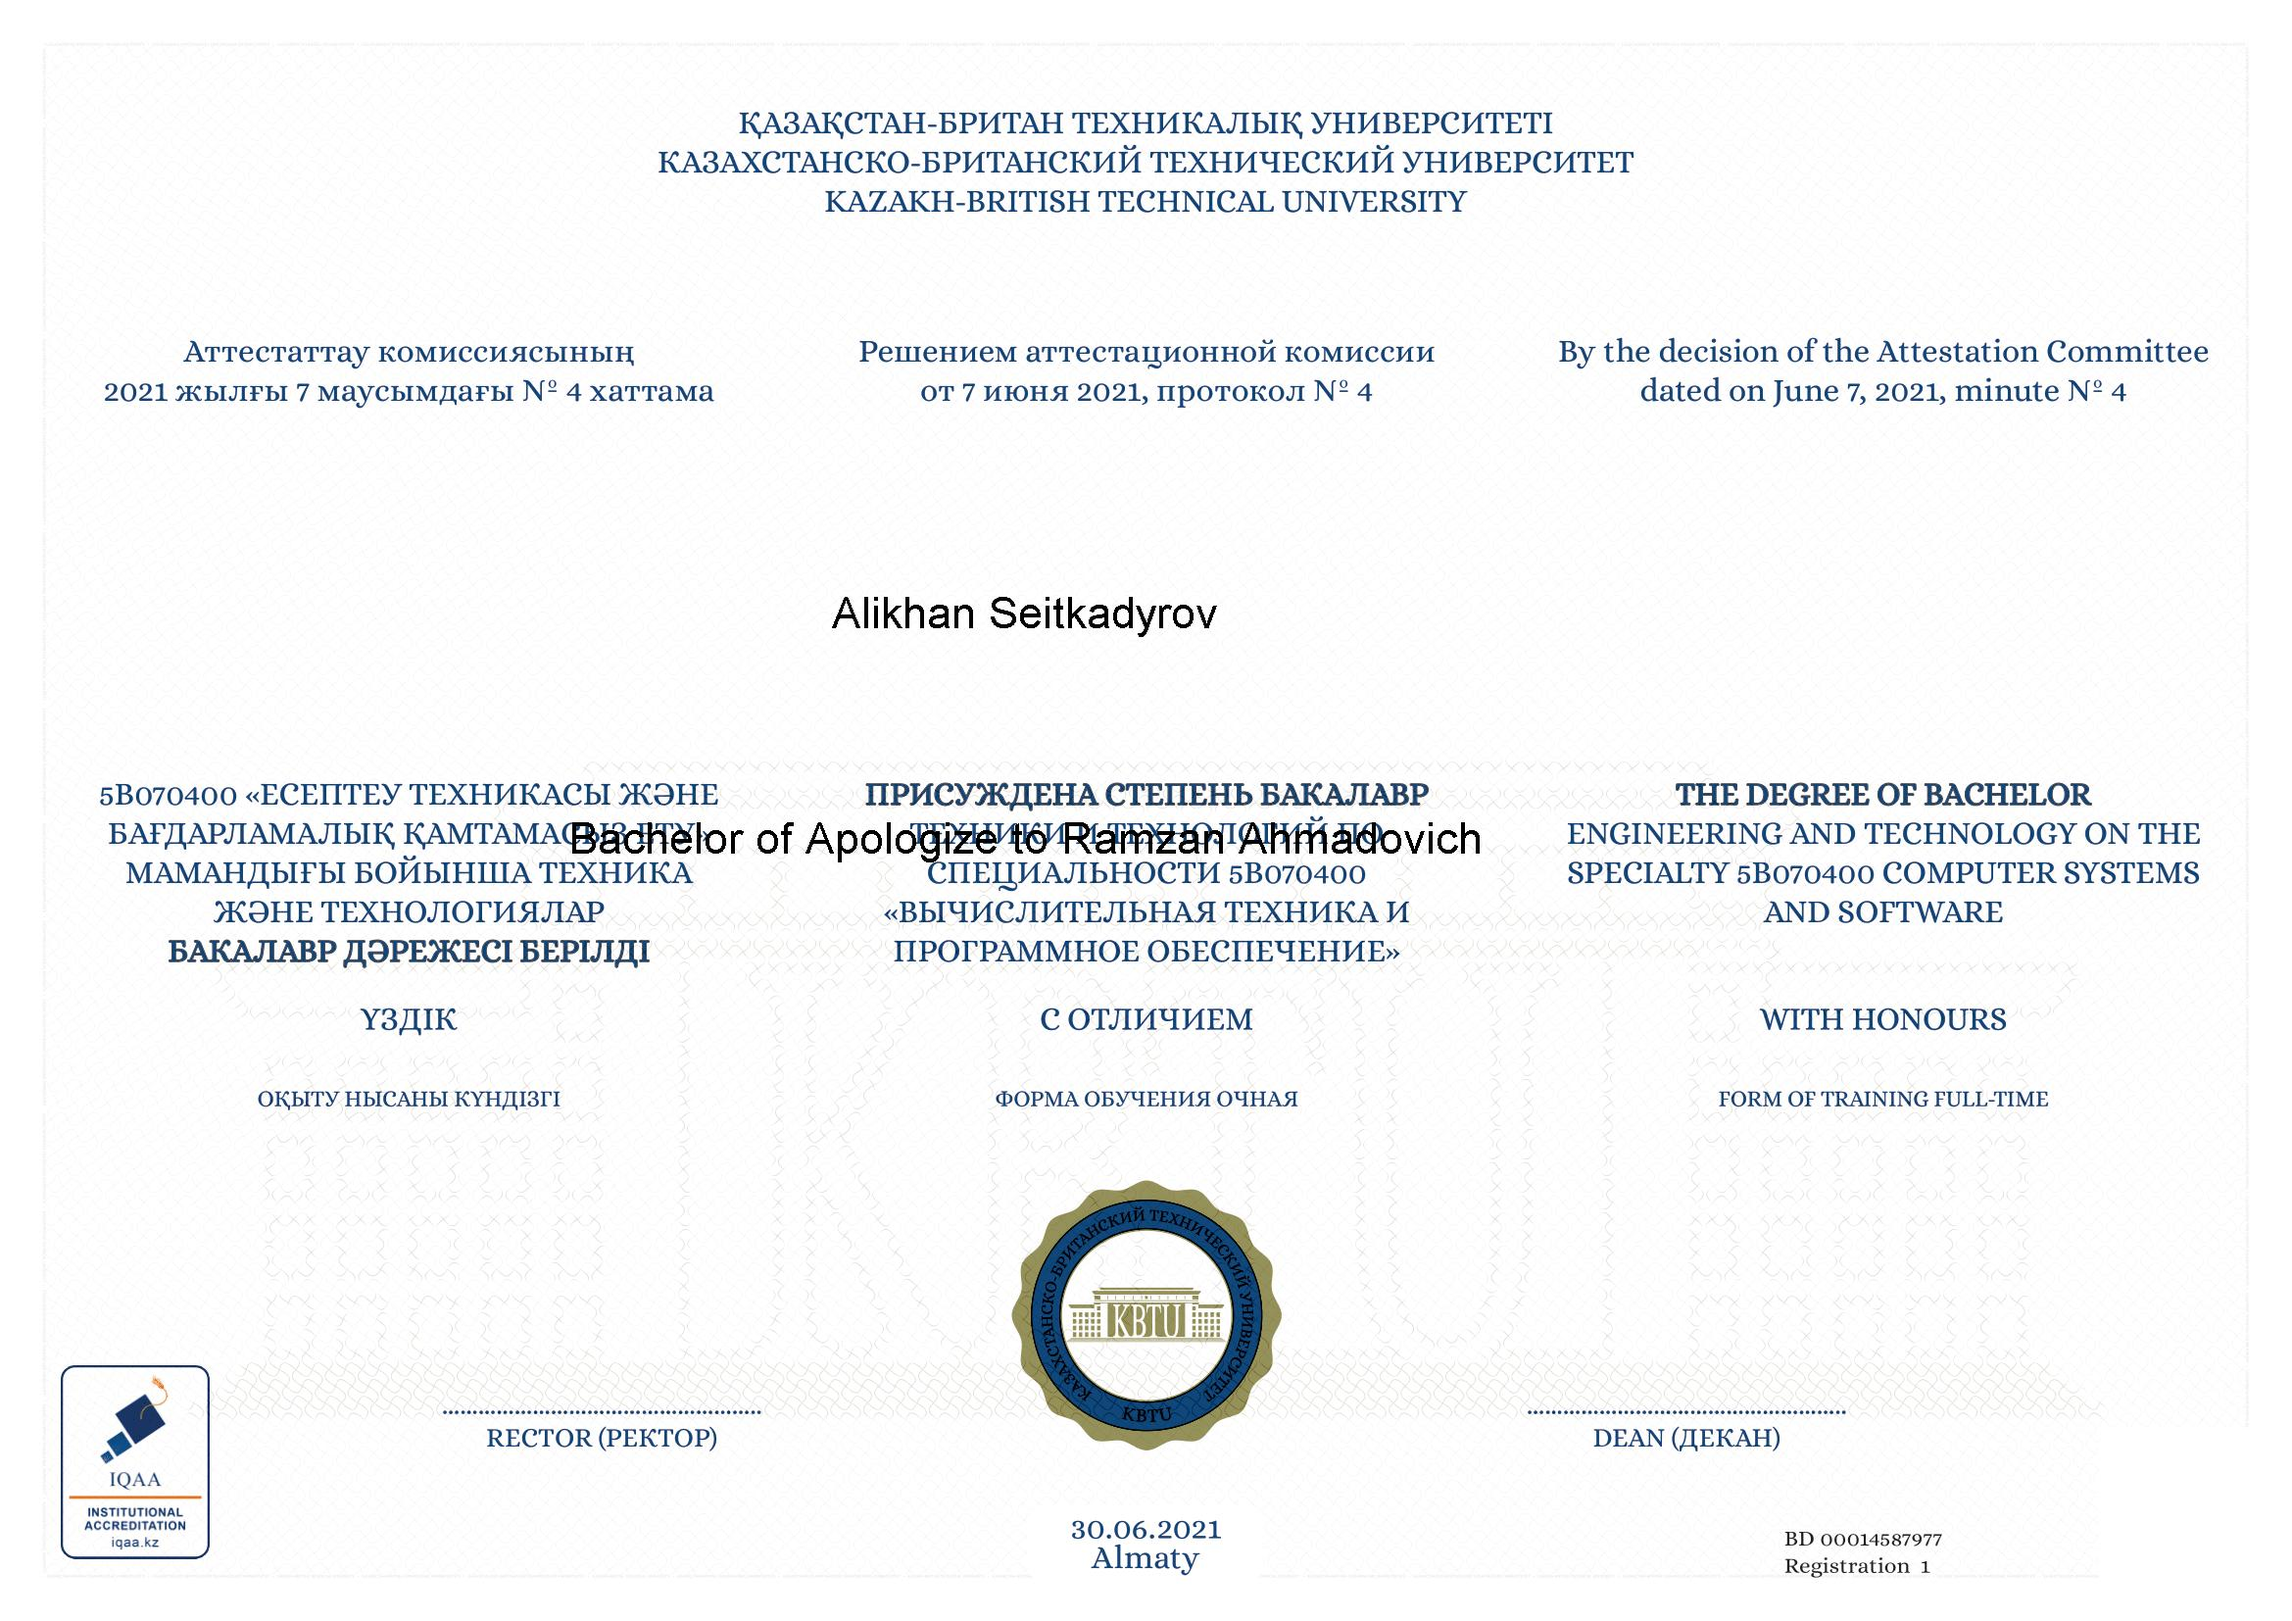
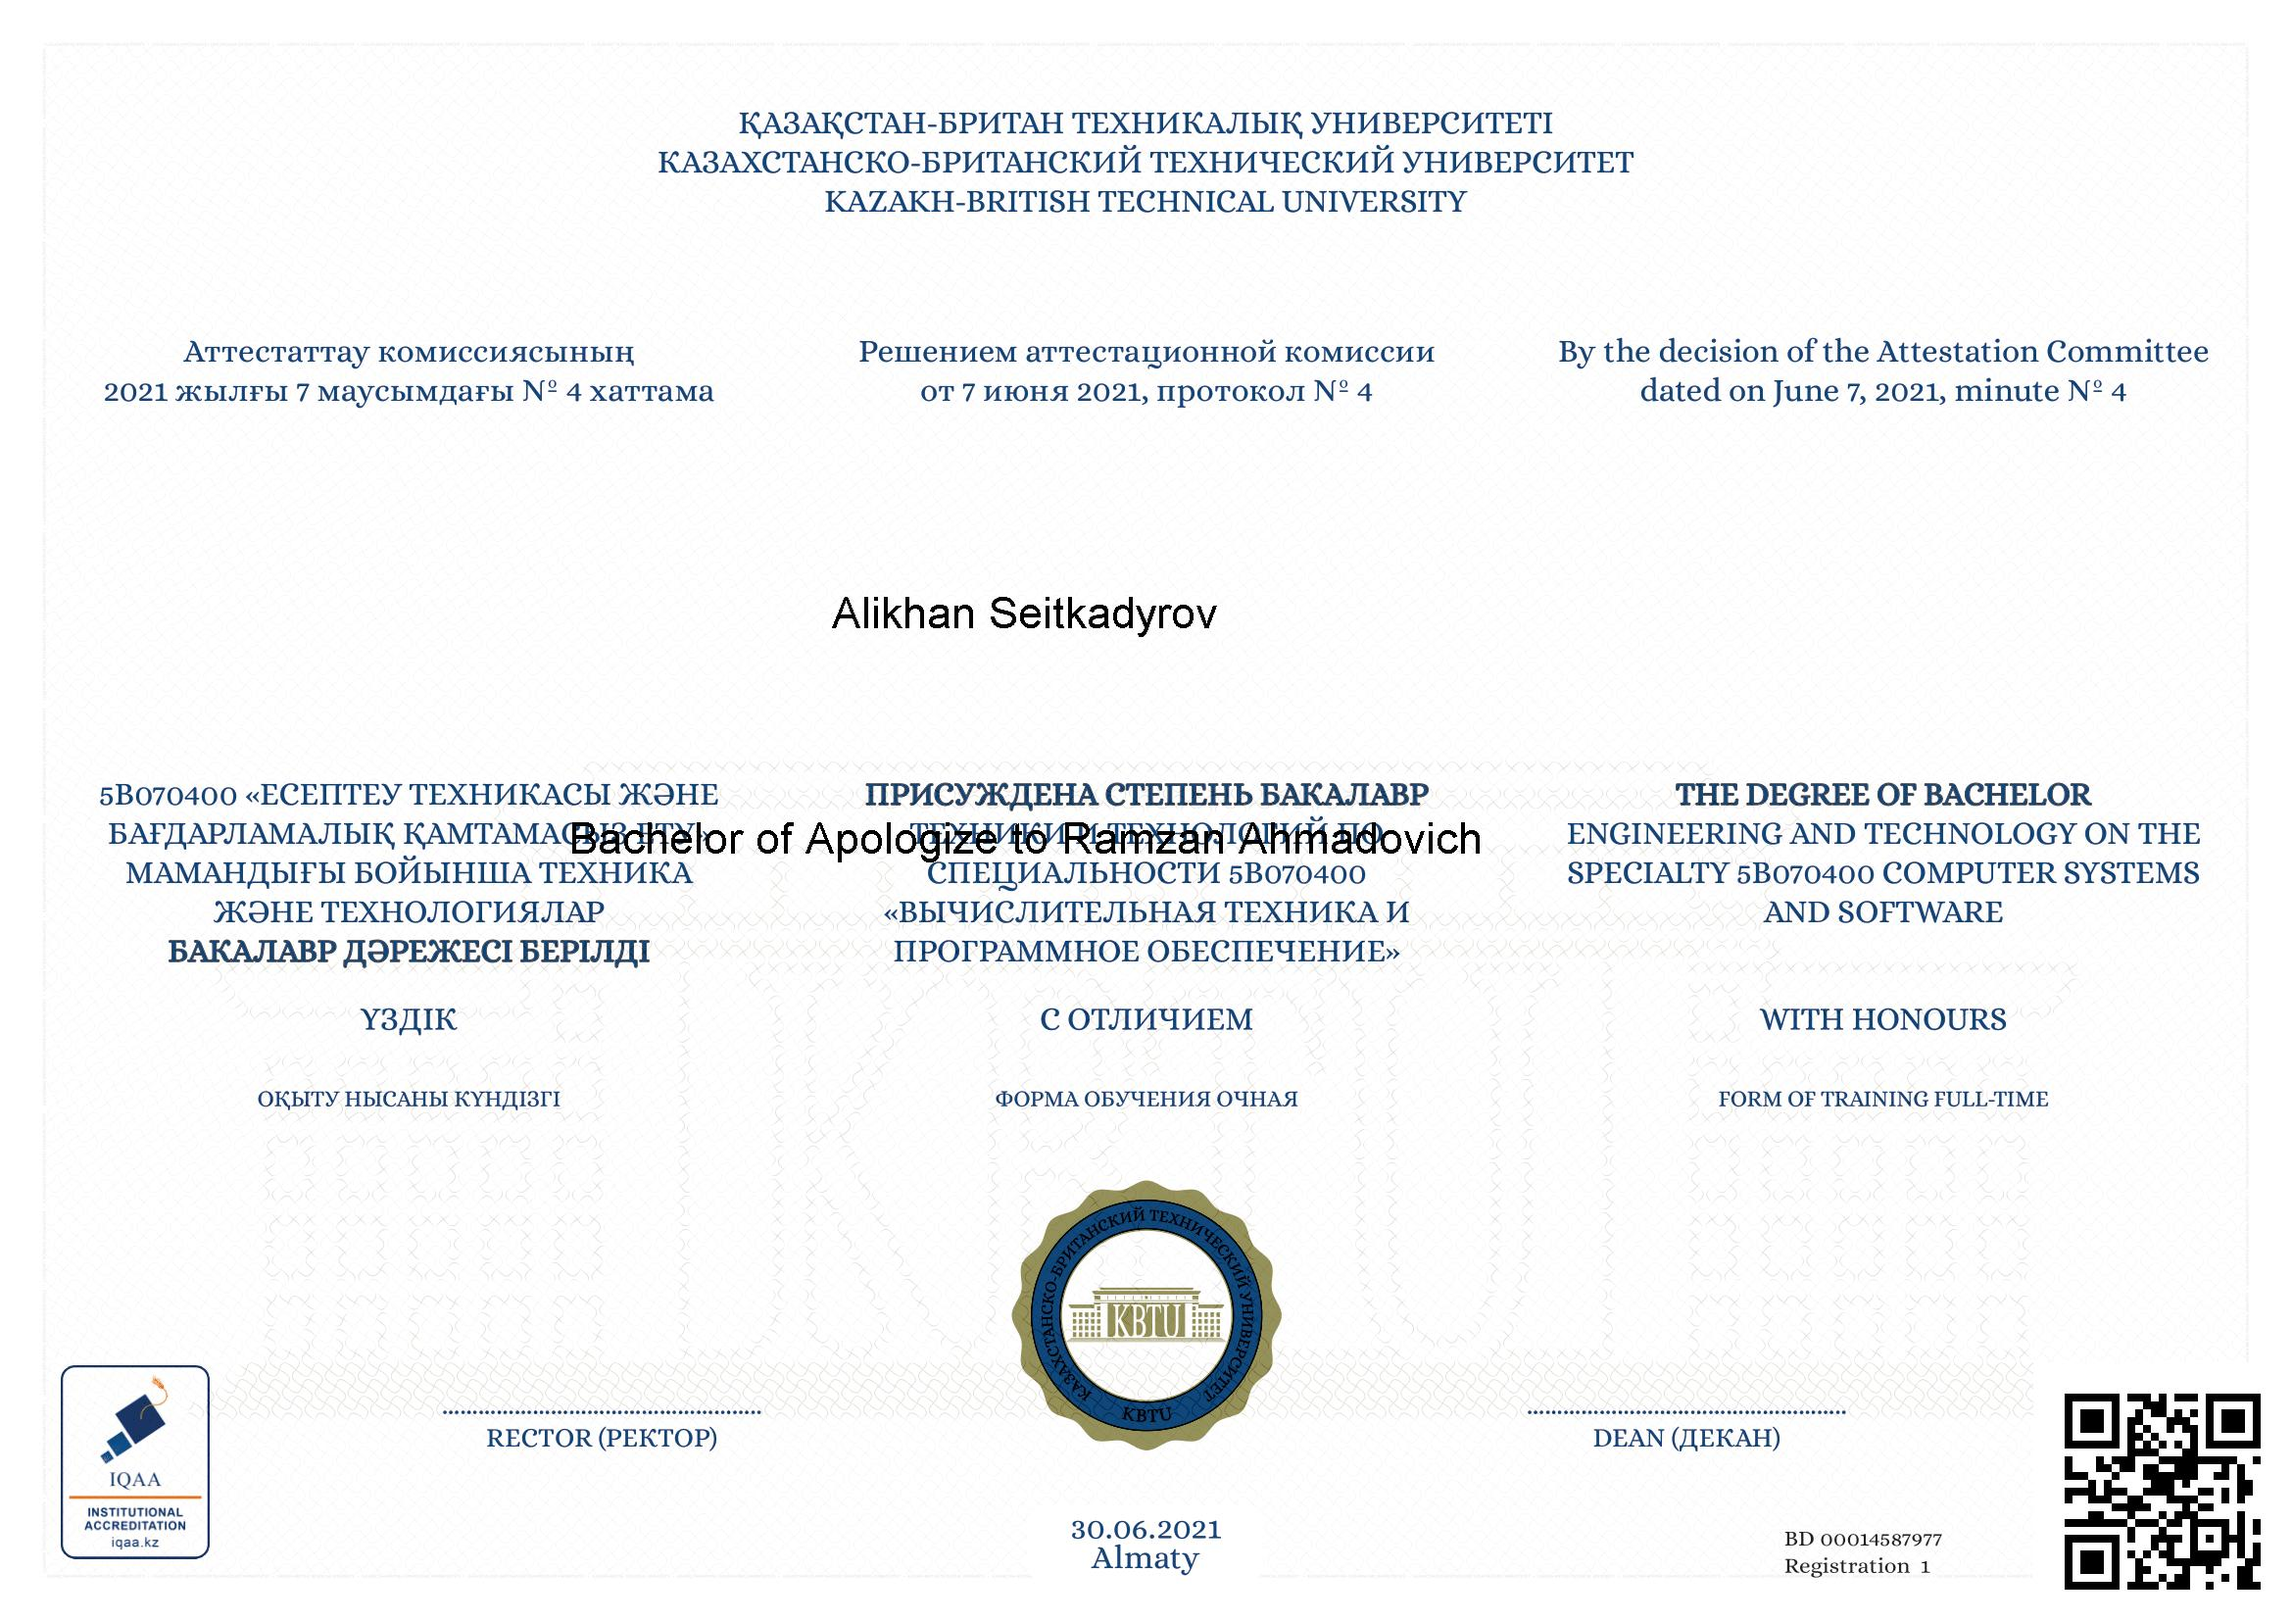
added qr code function

Changed region(s): [[0.8739, 0.8325, 0.9987, 0.9867]]

diff --git a/generator/diploma.py b/generator/diploma.py
@@ -1,5 +1,6 @@
 import pandas as pd
 from PIL import Image, ImageDraw, ImageFont
+import qrcode
 #import os
 from config import *
 
@@ -29,6 +30,14 @@ for index, row in data.iterrows():
     #Convert image mode to RGB
     if diploma.mode != 'RGB':
         diploma = diploma.convert('RGB')
+
+    #Generate QR Code
+    qr = qrcode.QRCode(box_size=8)
+    qr.add_data(name)
+    qr.make()
+    img_qr = qr.make_image()
+    pos = (diploma.size[0] - img_qr.size[0], diploma.size[1] - img_qr.size[1])
+    diploma.paste(img_qr, pos)
 
     # Save the diploma as a new image file.
     diploma.save(f'generator/Diplomas/images/{name}_diploma.jpeg')

diff --git a/generator/config.py b/generator/config.py
@@ -2,3 +2,7 @@
 excel_file = 'generator/data.xlsx'
 diploma_template = 'generator/diploma_template.png'
 bachelor = True
+
+#IPFS links
+ipfs_images = ''
+ipfs_json = ''

diff --git a/INSTRUCTIONS.md b/INSTRUCTIONS.md
@@ -2,8 +2,8 @@
 1. Two new folders created on Pinata (app.pinata.cloud). One for images, another for json files. Links for those two folders then need to be pasted into "generator" script as an input
 2. Excel file needs to be formatted correctly according to the template
 3. "Generator" script takes links to pinata folders, diploma template and .xlsx document as an input and turns them into two files:
-	1. JPEG formatted picture of the diploma 		with all necessary data in it
-	2. JSON document that has all necessary 		data for NFT: name, external link, traits 	etc.
+	1. JPEG formatted picture of the diploma with all necessary data in it
+	2. JSON document that has all necessary data for NFT: name, external link, traits etc.
 4. All generated jpeg and json files need to be pasted into folders in pinata (IPFS) so they are stored there
 5. Smart-contract template should be edited by adding all the links to the IPFS and names, keeping the format that is asked by each university and maintain security and transparency
 6. Smart-contract needs to be uploaded to the Ethereum blockchain and verified (Check Etherscan)
